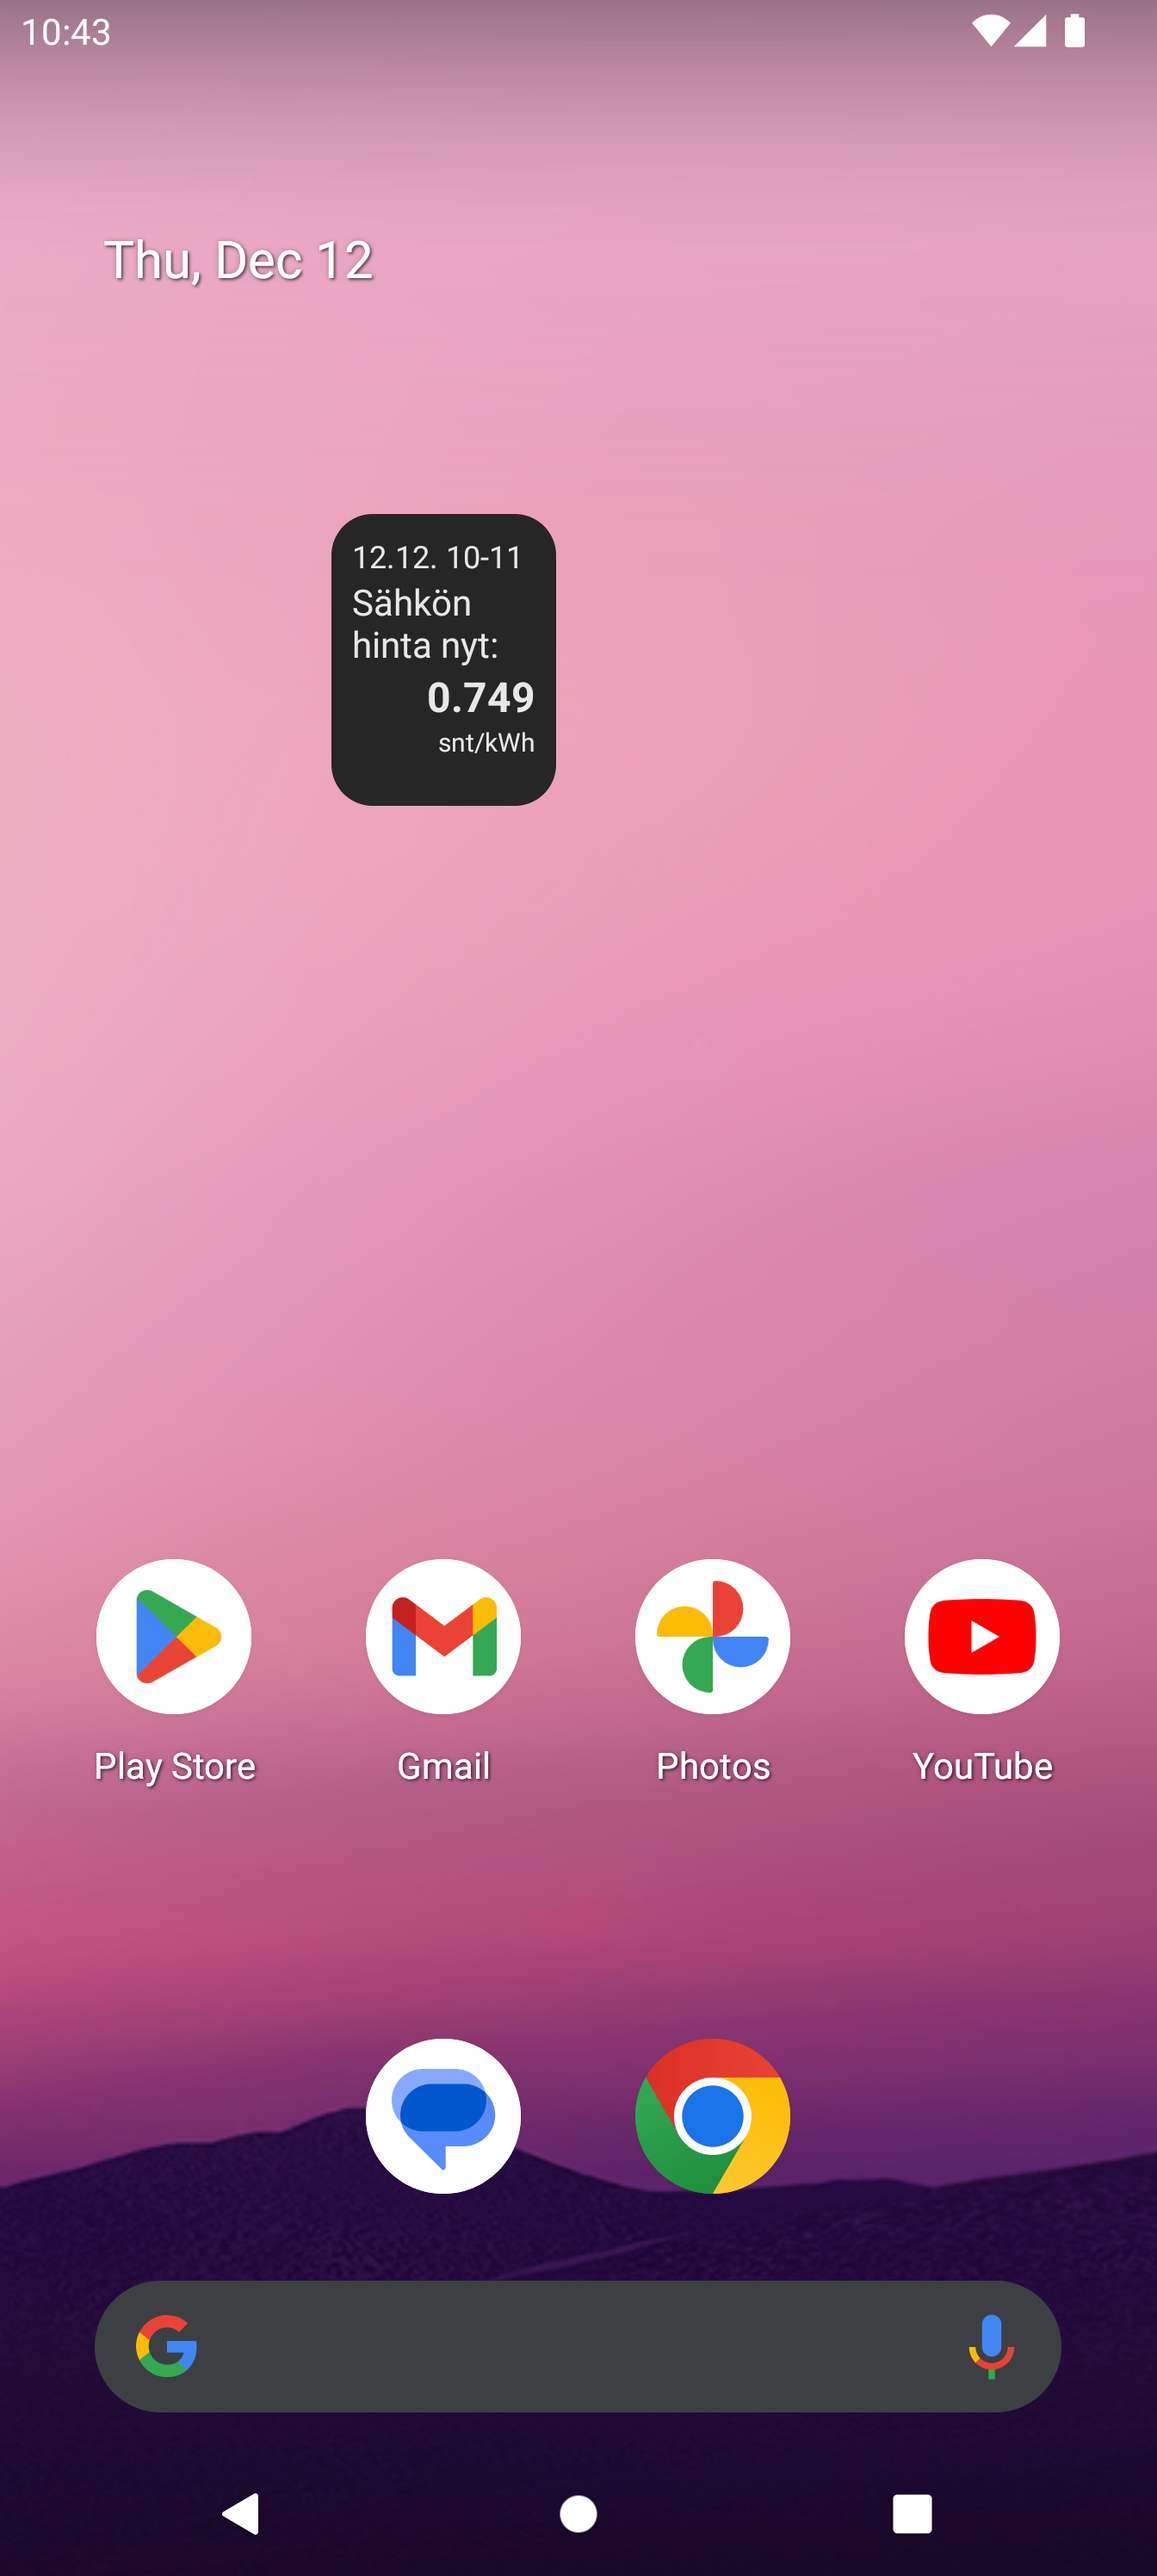
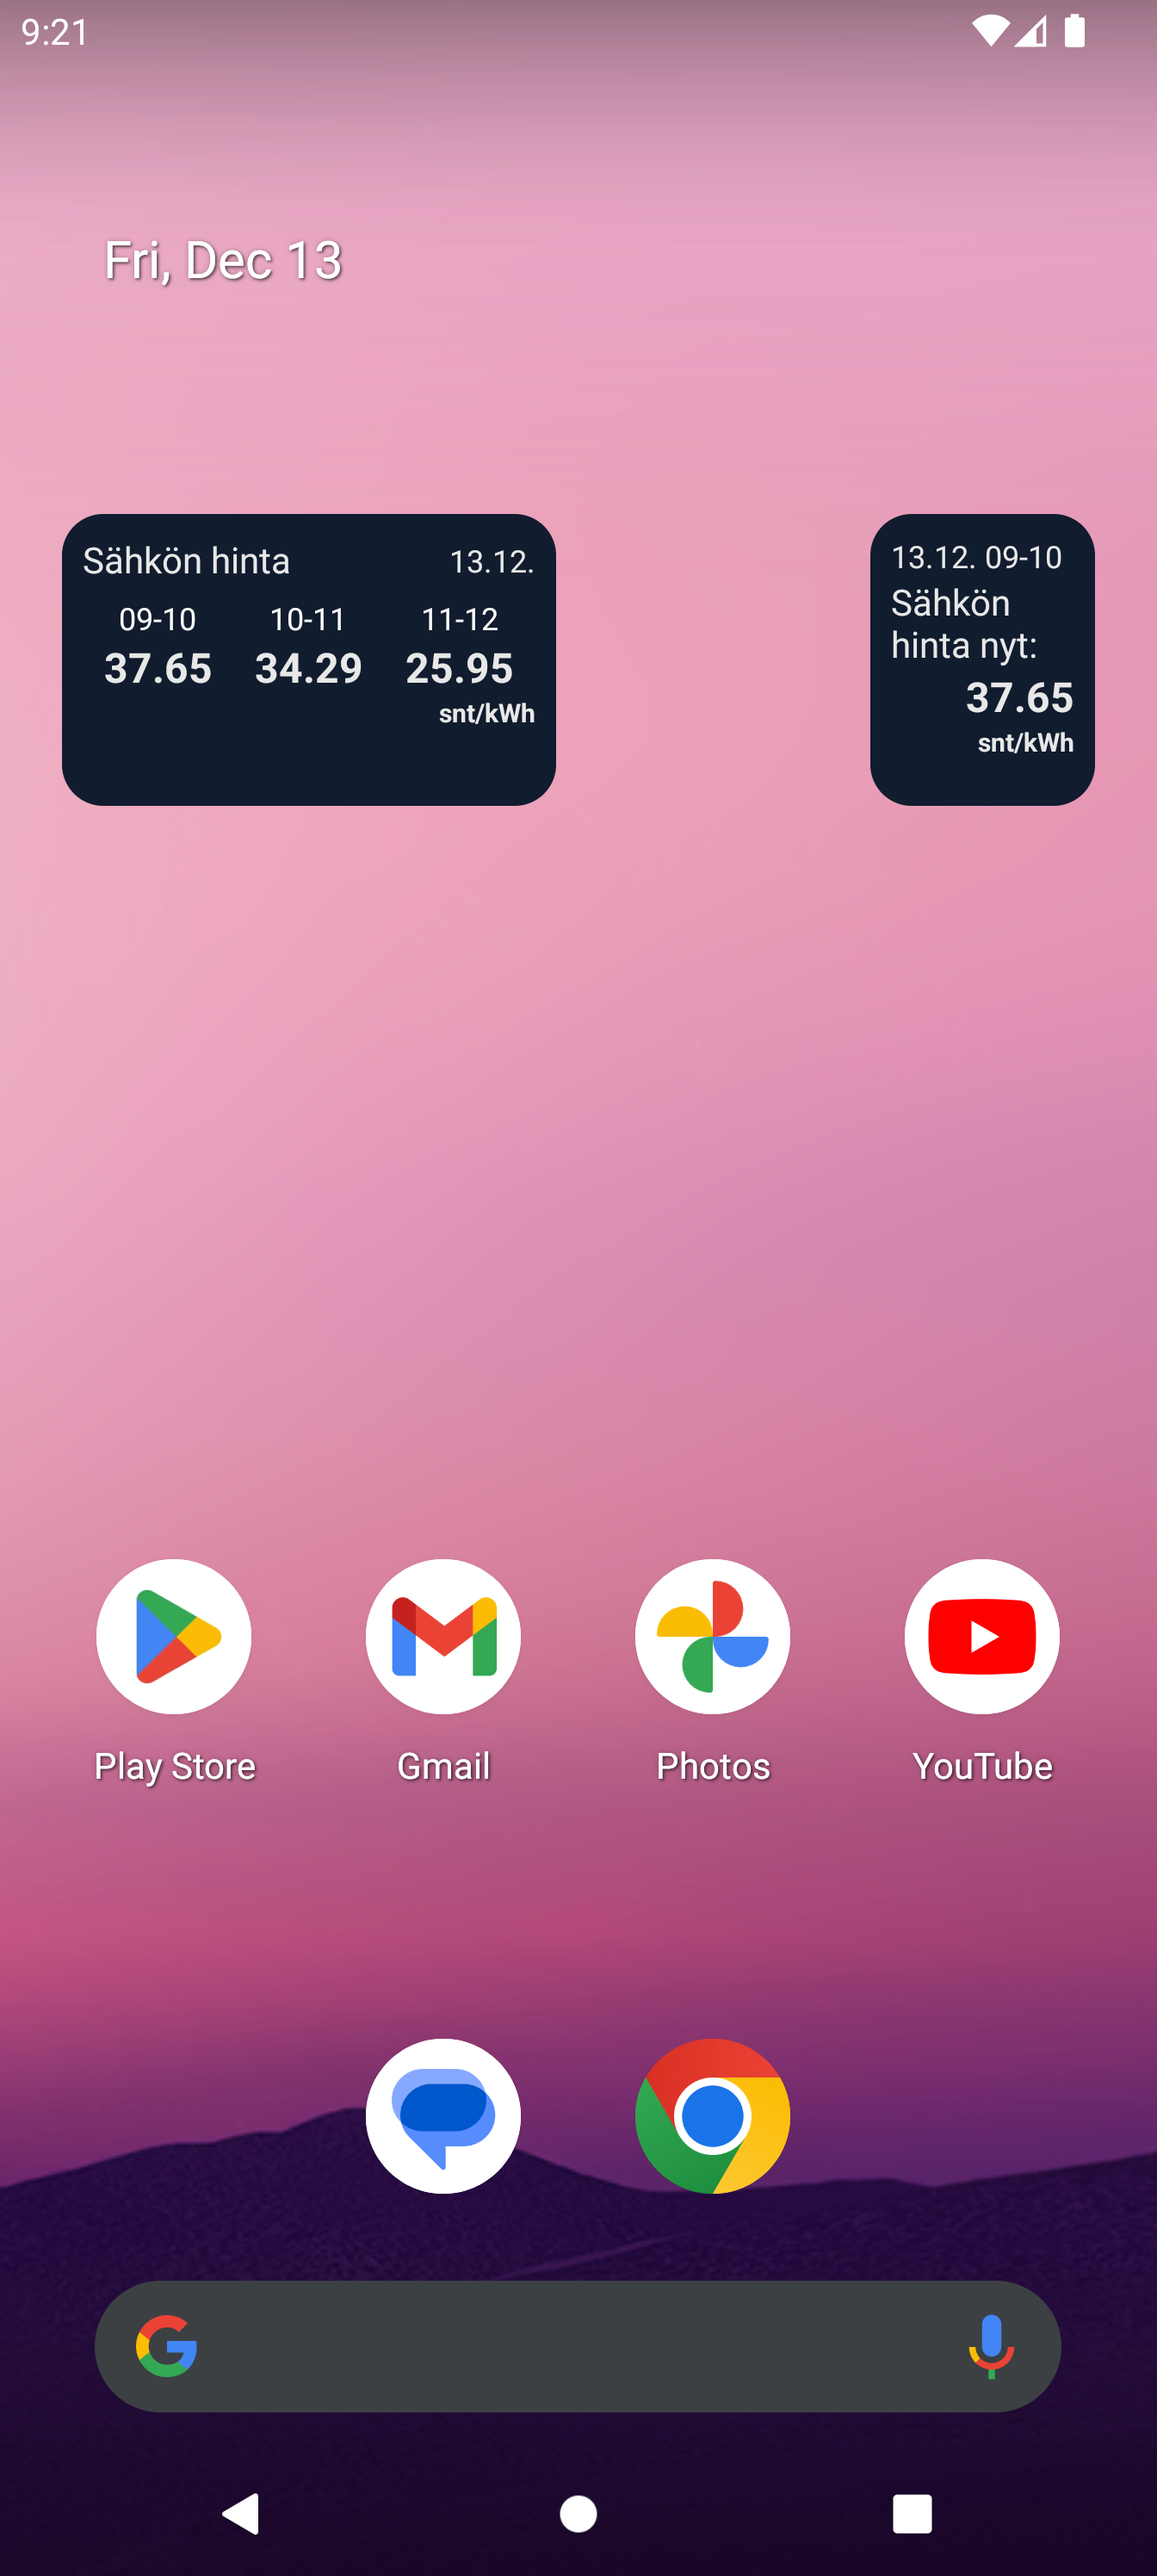
Add wide widget layout

diff --git a/lib/utils/api.dart b/lib/utils/api.dart
@@ -56,7 +56,7 @@ class ElectricityApi {
       if(resolution != 'PT60M') throw Exception('Unsupported resolution $resolution');
 
       final points = period.childElements.where((element) => element.name.local == 'Point');
-      int position = 1;
+      int position = 0;
       for (var point in points) {
         final double price = double.parse(point.getElement('price.amount')?.innerText ?? '-100');
         final DateTime time = DateTime.parse(start ?? '').add(Duration(hours: position));
@@ -75,6 +75,7 @@ class ElectricityApi {
     var prices = await this.prices;
     for (var price in prices) {
       if(price.time.isAtSameMomentAs(nowHour)) {
+        print('Current price: $price');
         return price;
       }
     }
@@ -83,19 +84,36 @@ class ElectricityApi {
 
   Future<ElectricityPrice?> getNextPrice() async {
     final DateTime now = DateTime.now();
-    final DateTime nowHour = DateTime(now.year, now.month, now.day, now.hour, 0, 0).add(const Duration(hours: 1));
+    final DateTime nextHour = DateTime(now.year, now.month, now.day, now.hour, 0, 0).add(const Duration(hours: 1));
     var prices = await this.prices;
     for (var price in prices) {
-      if(price.time.isAtSameMomentAs(nowHour)) {
+      if(price.time.isAtSameMomentAs(nextHour)) {
         return price;
       }
     }
     return null;
   }
 
+  Future<List<ElectricityPrice>> getThreeHourPrices() {
+    final DateTime now = DateTime.now();
+    final DateTime nowHour = DateTime(now.year, now.month, now.day, now.hour, 0, 0);
+    final DateTime nextThreeHours = nowHour.add(const Duration(hours: 2));
+    return getPricesForInterval(nowHour, nextThreeHours);
+  }
+
+  Future<List<ElectricityPrice>> getPricesForInterval(DateTime start, DateTime end) async {
+    var prices = await this.prices;
+    return prices.where(
+            (element) => (element.time.toLocal().isAfter(start) || element.time.toLocal().isAtSameMomentAs(start)) &&
+                (element.time.toLocal().isBefore(end) || element.time.toLocal().isAtSameMomentAs(end))
+    ).toList();
+  }
+
   Future<List<ElectricityPrice>> getPricesForDay(DateTime day) async {
     var prices = await this.prices;
-    return prices.where((element) => element.time.toLocal().day == day.toLocal().day).toList();
+    return prices.where(
+            (element) => element.time.toLocal().add(const Duration(hours: 1)).day == day.toLocal().day
+    ).toList();
   }
 }
 
@@ -143,6 +161,11 @@ class ElectricityPrice {
   String timeToString() {
     DateTime localTime = time.toLocal();
     return '${localTime.day}.${localTime.month}. ${localTime.hour.toString().padLeft(2, '0')}-${(localTime.hour + 1).toString().padLeft(2, '0')}';
+  }
+
+  String timeToHourString() {
+    DateTime localTime = time.toLocal();
+    return '${localTime.hour.toString().padLeft(2, '0')}-${(localTime.hour + 1).toString().padLeft(2, '0')}';
   }
 
   @override

diff --git a/android/app/src/main/kotlin/com/sruusk/sahkohinta/WidgetProvider.kt b/android/app/src/main/kotlin/com/sruusk/sahkohinta/WidgetProvider.kt
@@ -3,10 +3,14 @@ package com.sruusk.sahkohinta
 import android.appwidget.AppWidgetManager
 import android.content.Context
 import android.content.SharedPreferences
+import android.os.Build
+import android.util.SizeF
 import android.widget.RemoteViews
+import androidx.annotation.RequiresApi
 import es.antonborri.home_widget.HomeWidgetProvider
 
 class WidgetProvider : HomeWidgetProvider() {
+    @RequiresApi(Build.VERSION_CODES.S)
     override fun onUpdate(
         context: Context,
         appWidgetManager: AppWidgetManager,
@@ -14,15 +18,36 @@ class WidgetProvider : HomeWidgetProvider() {
         widgetData: SharedPreferences
     ) {
         appWidgetIds.forEach { widgetId ->
-            val views = RemoteViews(context.packageName, R.layout.widget).apply {
+
+            val narrowView = RemoteViews(context.packageName, R.layout.widget).apply {
                 val price = widgetData.getString("price", "0.00")
                 val time = widgetData.getString("time", "12.12. 25-26")
                 setTextViewText(R.id.text_price, price)
                 setTextViewText(R.id.text_time, time)
-                println("Price: $price, Time: $time")
             }
+
+            val wideView = RemoteViews(context.packageName, R.layout.widget_wide).apply {
+                val prices = Array<String>(3) { i -> widgetData.getString("price$i", "0.00").toString() }
+                val time = widgetData.getString("time", "12.12.").toString()
+                val times = Array<String>(3) { i -> widgetData.getString("time$i", "25-26").toString() }
+                setTextViewText(R.id.text_price1, prices[0])
+                setTextViewText(R.id.text_price2, prices[1])
+                setTextViewText(R.id.text_price3, prices[2])
+                setTextViewText(R.id.text_time, time.split(" ")[0]) // Only date
+                setTextViewText(R.id.text_time1, times[0])
+                setTextViewText(R.id.text_time2, times[1])
+                setTextViewText(R.id.text_time3, times[2])
+            }
+
+            val viewMapping: Map<SizeF, RemoteViews> = mapOf(
+                SizeF(40f, 100f) to narrowView,
+                SizeF(100f, 100f) to wideView
+            )
+
+            val remoteViews = RemoteViews(viewMapping)
+
             // This line is important to trigger the update
-            appWidgetManager.updateAppWidget(widgetId, views)
+            appWidgetManager.updateAppWidget(widgetId, remoteViews)
         }
     }
 }

diff --git a/lib/utils/home_widget.dart b/lib/utils/home_widget.dart
@@ -11,19 +11,23 @@ void updateWidget() {
   final int isolateId = Isolate.current.hashCode;
   print("[$now] Hello, world! isolate=${isolateId} function='$updateWidget'");
 
-  ElectricityApi().getCurrentPrice().then((price) {
-    print("Got price $price");
-    if(price != null) {
-      final PriceModifiers modifiers = PriceModifiers(multipliers: [ PriceModifier(type: ModifierType.vat, value: 1.255) ], addons: []);
-      List<Future> futures = [
-        HomeWidget.saveWidgetData("price", price.toStringWithModifiers(modifiers)),
-        HomeWidget.saveWidgetData("time", price.timeToString())
-      ];
-      Future.wait(futures).then((value) {
-        print("Saved widget data");
-        HomeWidget.updateWidget(name: 'WidgetProvider');
-      });
-    }
+  ElectricityApi().getThreeHourPrices().then((prices) async {
+    print("Got prices $prices");
+    final PriceModifiers modifiers = PriceModifiers(multipliers: [ PriceModifier(type: ModifierType.vat, value: 1.255) ], addons: []);
+    List<Future> futures = [
+      HomeWidget.saveWidgetData("price", prices[0].toStringWithModifiers(modifiers)),
+      HomeWidget.saveWidgetData("price0", prices[0].toStringWithModifiers(modifiers)),
+      HomeWidget.saveWidgetData("price1", prices[1].toStringWithModifiers(modifiers)),
+      HomeWidget.saveWidgetData("price2", prices[2].toStringWithModifiers(modifiers)),
+      HomeWidget.saveWidgetData("time", prices[0].timeToString()),
+      HomeWidget.saveWidgetData("time0", prices[0].timeToHourString()),
+      HomeWidget.saveWidgetData("time1", prices[1].timeToHourString()),
+      HomeWidget.saveWidgetData("time2", prices[2].timeToHourString())
+    ];
+    Future.wait(futures).then((value) {
+      print("Saved widget data");
+      HomeWidget.updateWidget(name: 'WidgetProvider');
+    });
   });
 }
 

diff --git a/lib/widgets/chart.dart b/lib/widgets/chart.dart
@@ -45,7 +45,7 @@ class ChartWidget extends StatelessWidget {
                           ),
                         ),
                         y: ChartAxisSettingsAxis(
-                          frequency: 1.0,
+                          frequency: 10,
                           max: maxPrice,
                           min: minPrice,
                           textStyle: TextStyle(
